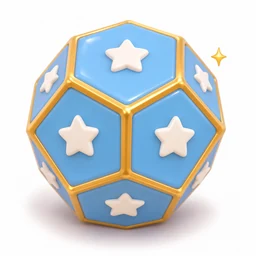
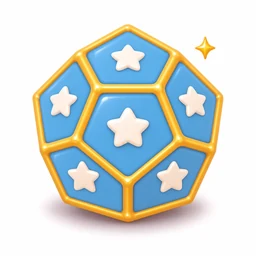
美術素材：12 面骰正式版、能量星星、地圖格子事件圖示
- 12 面骰換成正式稿（正五邊形面）；新增能量星星 images/items/star.webp
- 新增 images/tiles/（起點旗、寶箱、機會、小遊戲、終點旗，192px WebP）
- 地圖格子以白色圓角圖示框顯示（contain），角色所在格的圖示縮小移到角落避免遮擋；圖例改用圖示
- 第 30 格暫用終點旗，只代表第一區結束，規則不變
- 能量星星在淺色底以 multiply 顯示（星星卡、地圖 HUD、商店餘額、結算摘要），不去背
- 新增礦場木門繪圖提示詞；sw.js 升版 cgp-shell-v20；App 版本 2026.11.07-10
- E2E 新增格子圖示數量、載入、contain、角色所在格讓位檢查

Claude-Session: https://claude.ai/code/session_01W9KMAjsCX9MNXC5NxB6PY5

diff --git a/js/app.js b/js/app.js
@@ -4,7 +4,7 @@
 
   var CGP = window.CGP;
   /** 每次發布更新時修改，方便在「設定 → 備份」確認手機上是不是新版 */
-  var APP_VERSION = '2026.11.07-9';
+  var APP_VERSION = '2026.11.07-10';
   var store;
   try {
     store = new CGP.Store();
@@ -437,7 +437,7 @@
       '<button class="partner" data-action="pick-character" aria-label="選擇冒險夥伴"><span class="partner-ring">' + characterArt(child) + '</span>' +
       '<span class="partner-tag">' + h(characterName(child)) + ' ✎</span></button>' +
       '<div class="star-main"><span class="star-label">' + h(child.name) + '的能量星星</span>' +
-      '<b class="star-value" data-testid="stars"><span class="big-star">⭐</span> ' + num(bal) + '</b>' +
+      '<b class="star-value" data-testid="stars"><span class="big-star">' + STAR_IMG + '</span> ' + num(bal) + '</b>' +
       '<span class="star-hint">' + hint + '</span>' + progressBar(bal % DICE_COST, DICE_COST, 'star') + '</div>' +
       '<span class="chest-deco" aria-hidden="true"><small>快去收集吧！</small>' + CHEST + '</span></section>';
 
@@ -446,11 +446,11 @@
     if (x) {
       summary = '<div class="adv-status ok"><span class="sum-state"><i>✅</i>今日已結算</span>' +
         '<span class="sum-cell"><small>淨得分</small><b class="pos">' + signed(x.net) + '</b></span>' +
-        '<span class="sum-cell"><small>獲得星星</small><b class="gold">⭐' + x.stars + '</b>' + (x.bonusStars ? '<small>含額外 ' + x.bonusStars + '</small>' : '') + '</span></div>';
+        '<span class="sum-cell"><small>獲得星星</small><b class="gold">' + STAR_IMG + x.stars + '</b>' + (x.bonusStars ? '<small>含額外 ' + x.bonusStars + '</small>' : '') + '</span></div>';
     } else if (st.unlocked) {
       summary = '<div class="adv-status ready"><span class="sum-state"><i>🔓</i>今日冒險已解鎖</span>' +
         '<span class="sum-cell"><small>淨得分</small><b class="pos">' + signed(st.net) + '</b></span>' +
-        '<span class="sum-cell"><small>可得星星</small><b class="gold">⭐' + st.previewStars + '</b></span>' +
+        '<span class="sum-cell"><small>可得星星</small><b class="gold">' + STAR_IMG + st.previewStars + '</b></span>' +
         '<button class="btn primary sum-cta" data-action="enter-adventure">結算並出發</button></div>';
     } else {
       summary = '<div class="adv-status locked"><span class="sum-state"><i>🔒</i>今日冒險尚未解鎖</span>' +
@@ -499,6 +499,14 @@
     return '<img class="' + (cls || 'char-img') + '" src="images/characters/' + id + '.webp" alt="' + h(c.name) + '" width="300" height="310" decoding="async">';
   }
   function characterArt(child) { return charImg(characterId(child)); }
+  /** 能量星星圖示（白底圖，以 mix-blend-mode: multiply 疊在淺色底上；alt 保留 ⭐ 供讀屏） */
+  var STAR_IMG = '<img class="star-ico" src="images/items/star.webp" alt="⭐" width="256" height="256" decoding="async" draggable="false">';
+  /** 地圖格子事件圖示（白底圖放在白色圓角圖示框，contain 不裁切） */
+  var TILE_ART = { start: 'images/tiles/start.webp', chest: 'images/tiles/chest.webp', chance: 'images/tiles/chance.webp',
+    minigame: 'images/tiles/minigame.webp', boundary: 'images/tiles/finish.webp' };
+  function tileArt(type, cls) {
+    return TILE_ART[type] ? '<span class="tile-art ' + (cls || '') + '"><img src="' + TILE_ART[type] + '" alt="" aria-hidden="true" width="192" height="192" decoding="async" draggable="false"></span>' : '';
+  }
   /** 道具圖示（白底圖放在白色圖示框中，contain 不裁切）；名稱與價格由介面另外顯示 */
   function itemArt(id, cls) {
     var it = GAME.SHOP.filter(function (x) { return x.id === id; })[0];
@@ -511,7 +519,6 @@
   }
 
   // ---------- 金島第一區地圖（背景＋格子＋事件圖示＋角色，同一個座標容器） ----------
-  var TILE_ICON = { start: '', normal: '', chest: '🎁', chance: '❓', minigame: '🎮', boundary: '🚪' };
   var TILE_LABEL = { chest: '寶箱', chance: '機會', minigame: '小遊戲（即將開放）', boundary: '第一區終點：礦場木門' };
 
   /** 目前區域（第一區）的參考尺寸與背景 */
@@ -544,17 +551,17 @@
     var tiles = board.tiles.filter(function (t) { return t.regionId === region.id; }).map(function (t) {
       var p = worldXY(region, t);
       if (t.type === 'start') {
-        return '<div class="mstart" style="left:' + p.x.toFixed(1) + 'px;top:' + p.y.toFixed(1) + 'px" aria-hidden="true">起點</div>';
+        return '<div class="mstart' + (t.id === player.tileId ? ' here' : '') + '" data-tile="' + t.id + '" style="left:' + p.x.toFixed(1) + 'px;top:' + p.y.toFixed(1) + 'px" aria-hidden="true">' +
+          tileArt('start', 'start-art') + '<span>起點</span></div>';
       }
-      var icon = TILE_ICON[t.type];
-      return '<div class="mtile mt-' + t.type + '" data-n="' + t.n + '" data-tile="' + t.id + '" style="left:' + p.x.toFixed(1) + 'px;top:' + p.y.toFixed(1) + 'px"' +
-        (TILE_LABEL[t.type] ? ' title="' + TILE_LABEL[t.type] + '"' : '') + '>' + (icon ? '<span class="mtile-icon">' + icon + '</span>' : '') + '</div>';
+      return '<div class="mtile mt-' + t.type + (t.id === player.tileId ? ' here' : '') + '" data-n="' + t.n + '" data-tile="' + t.id + '" style="left:' + p.x.toFixed(1) + 'px;top:' + p.y.toFixed(1) + 'px"' +
+        (TILE_LABEL[t.type] ? ' title="' + TILE_LABEL[t.type] + '"' : '') + '>' + tileArt(t.type, 'mtile-icon') + '</div>';
     }).join('');
     var pp = worldXY(region, board.tiles[player.pos]);
     return pageHeader('金島', child, 'map') +
       '<main class="page map-page">' +
       '<section class="hud">' +
-      '<span class="hud-cell"><small>能量星星</small><b class="gold" data-testid="stars">⭐ ' + num(store.getStarBalance(child.id)) + '</b></span>' +
+      '<span class="hud-cell"><small>能量星星</small><b class="gold" data-testid="stars">' + STAR_IMG + ' ' + num(store.getStarBalance(child.id)) + '</b></span>' +
       '<span class="hud-cell"><small>今日骰子</small><b data-testid="rolls">' + used + ' / ' + limit + '</b></span>' +
       '<span class="hud-cell"><small>位置</small><b data-testid="pos">' + player.pos + ' / ' + end + '</b></span>' +
       '<button class="btn small hud-shop" data-action="open-shop"' + (canPlay ? '' : ' disabled') + '>🛒 商店</button></section>' +
@@ -577,7 +584,9 @@
       act('d12', '12 面骰', bag.d12, !canPlay || atEnd || noRolls || !bag.d12) +
       act('skates', '溜冰鞋 +3', bag.skates, !canPlay || atEnd || !bag.skates) +
       '</section>' +
-      '<div class="legend"><span>🎁 寶箱</span><span>❓ 機會</span><span>🎮 小遊戲（即將開放）</span><span>🚪 第一區終點</span></div>' +
+      '<div class="legend">' + [['chest', '寶箱'], ['chance', '機會'], ['minigame', '小遊戲（即將開放）'], ['boundary', '第一區終點']].map(function (l) {
+        return '<span>' + tileArt(l[0], 'legend-art') + l[1] + '</span>';
+      }).join('') + '</div>' +
       '<a class="btn block" href="#adventure-' + h(child.id) + '">‹ 回冒險大廳</a>' +
       '</main>';
   }
@@ -663,6 +672,12 @@
   var reduceMotion = window.matchMedia && window.matchMedia('(prefers-reduced-motion: reduce)').matches;
 
   /** 角色依序一格一格跳過去，鏡頭跟隨 */
+  /** 角色所在格：事件圖示縮小移到角落，避免遮住角色 */
+  function markHere(tileId) {
+    app.querySelectorAll('.map-world .here').forEach(function (el) { el.classList.remove('here'); });
+    var el = app.querySelector('.map-world [data-tile="' + tileId + '"]:not(.pawn)');
+    if (el) el.classList.add('here');
+  }
   async function hopAlong(child, path) {
     var pawn = document.getElementById('pawn');
     if (!pawn) return;
@@ -672,6 +687,7 @@
       var t = board.tiles[path[i]], p = worldXY(regionOf(board, t), t);
       pawn.style.left = p.x.toFixed(1) + 'px'; pawn.style.top = p.y.toFixed(1) + 'px';
       pawn.dataset.pos = path[i]; pawn.dataset.tile = t.id;
+      markHere(t.id);
       pawn.classList.remove('hop'); void pawn.offsetWidth; pawn.classList.add('hop');
       followPawn(true);
       await sleep(reduceMotion ? 60 : 340);
@@ -731,7 +747,7 @@
       var bal = store.getStarBalance(childId);
       var bag = store.getPlayer(childId).bag;
       confirmEl.innerHTML = '<div class="confirm-box shop-box"><h2>🛒 星星商店</h2>' +
-        '<p class="shop-bal">目前有 <b>⭐ ' + num(bal) + '</b></p>' +
+        '<p class="shop-bal">目前有 <b>' + STAR_IMG + ' ' + num(bal) + '</b></p>' +
         GAME.SHOP.map(function (it) {
           var ok = bal >= it.price;
           return '<div class="shop-row" data-item="' + it.id + '">' + itemArt(it.id, 'shop-row-icon') +

diff --git a/tests/e2e.js b/tests/e2e.js
@@ -412,7 +412,7 @@ async function main() {
     await q.click('[data-action=enter-adventure]');
     await q.click('#confirm [data-yes]');
     await q.waitForSelector('[data-testid=stars]');
-    assert.equal(await q.locator('[data-testid=stars]').innerText(), '⭐ 4');
+    assert.equal((await q.locator('[data-testid=stars]').innerText()).trim(), '4');
     await q.screenshot({ path: SHOT_DIR ? path.join(SHOT_DIR, '15-lobby.png') : path.join(require('os').tmpdir(), 'lobby.png'), fullPage: true });
     console.log('✔ Phase 2 案例 A：+20 解鎖並取得 4 星');
 
@@ -443,7 +443,7 @@ async function main() {
     assert.equal(await q.locator('[data-action=enter-adventure]').count(), 0);
     const q2 = await c2.newPage();
     await q2.goto(url + '#adventure-' + ids.C);
-    assert.equal(await q2.locator('[data-testid=stars]').innerText(), '⭐ 7');
+    assert.equal((await q2.locator('[data-testid=stars]').innerText()).trim(), '7');
     await tap(ids.C, '加五十'); // 結算後再加分
     assert.equal(await stars(ids.C), 7);
     console.log('✔ Phase 2 案例 D：重新整理、重新開啟後不重複發星');
@@ -477,17 +477,17 @@ async function main() {
     await q.waitForSelector('.map-cta[href]');
     await q.click('.map-cta[href]');
     await q.waitForSelector('#pawn');
-    assert.equal(await q.locator('[data-testid=stars]').innerText(), '⭐ 20');
+    assert.equal((await q.locator('[data-testid=stars]').innerText()).trim(), '20');
 
     // 案例 A：購買 6 面骰扣 5 星、進背包
     await q.click('[data-action=open-shop]');
     await q.click('#confirm [data-buy=d6]');
-    assert.match(await q.locator('.shop-bal').innerText(), /⭐ 15/);
+    assert.match(await q.locator('.shop-bal').innerText(), /目前有\s*15\b/);
     await q.click('#confirm [data-buy=d6]');
     await q.click('#confirm [data-buy=d6]');
     await q.click('#confirm [data-buy=d6]');
     await q.click('#confirm [data-no]');
-    assert.equal(await q.locator('[data-testid=stars]').innerText(), '⭐ 0');
+    assert.equal((await q.locator('[data-testid=stars]').innerText()).trim(), '0');
     assert.match(await q.locator('.dice-btn.d6').innerText(), /×4/);
     console.log('✔ Phase 3 案例 A：購買 6 面骰扣 5 星、進背包');
 
@@ -605,7 +605,7 @@ async function main() {
     await q.waitForSelector('.map-cta[href]');
     await q.click('.map-cta[href]');
     await q.waitForSelector('#pawn');
-    assert.equal(await q.locator('[data-testid=stars]').innerText(), '⭐ 40');
+    assert.equal((await q.locator('[data-testid=stars]').innerText()).trim(), '40');
 
     // 圖片載入、正方形、object-fit: contain、白色圖示框、手機上至少 48px
     const checkArt = async (sel, label) => {
@@ -636,12 +636,12 @@ async function main() {
     assert.match(await q.locator('#confirm [data-item=d12]').innerText(), /12 面骰/);
     if (SHOT_DIR) await q.locator('#confirm .shop-box').screenshot({ path: path.join(SHOT_DIR, '17-shop-items-' + width + '.png') });
     await q.click('#confirm [data-buy=d12]');
-    assert.match(await q.locator('.shop-bal').innerText(), /⭐ 30/);
+    assert.match(await q.locator('.shop-bal').innerText(), /目前有\s*30\b/);
     await q.click('#confirm [data-buy=skates]');
-    assert.match(await q.locator('.shop-bal').innerText(), /⭐ 26/);
+    assert.match(await q.locator('.shop-bal').innerText(), /目前有\s*26\b/);
     assert.match(await q.locator('#confirm [data-item=skates]').innerText(), /背包 ×1/);
     await q.click('#confirm [data-no]');
-    assert.equal(await q.locator('[data-testid=stars]').innerText(), '⭐ 26');
+    assert.equal((await q.locator('[data-testid=stars]').innerText()).trim(), '26');
     assert.match(await q.locator('.dice-btn.d12').innerText(), /×1/);
     assert.match(await q.locator('.dice-btn.skates').innerText(), /×1/);
     assert.ok(await q.locator('.dice-btn.d6').isDisabled(), '沒有 6 面骰時不可按');
@@ -654,7 +654,7 @@ async function main() {
     await q.waitForSelector('.dice-btn.skates[disabled]');
     assert.equal(await q.locator('[data-testid=rolls]').innerText(), '0 / 3');
     assert.match(await q.locator('.dice-btn.skates').innerText(), /×0/);
-    assert.equal(await q.locator('[data-testid=stars]').innerText(), '⭐ 28');
+    assert.equal((await q.locator('[data-testid=stars]').innerText()).trim(), '28');
     await checkArt('.dice-bar .item-art img', '使用後道具列');
     console.log('✔ 道具圖示 ' + width + 'px：商店與道具列圖片載入、contain、白框、價格 5／10／4、溜冰鞋前進 3 格不算擲骰');
     await c4.close();
@@ -686,6 +686,26 @@ async function main() {
       // 背景保持 4:5、不裁切
       const bgRatio = await q.evaluate(() => { const r = document.querySelector('.map-bg').getBoundingClientRect(); return r.width / r.height; });
       assert.ok(Math.abs(bgRatio - 0.8) < 0.002, '背景維持 4:5');
+      // 格子事件圖示：圖片載入、contain、白框；角色在起點時起點旗讓位
+      await q.waitForFunction(() => [...document.querySelectorAll('.map-world .tile-art img, .legend img')].every((i) => i.complete && i.naturalWidth === 192));
+      const arts = await q.evaluate(() => {
+        const z = (el) => el.getBoundingClientRect().width;
+        const icons = [...document.querySelectorAll('.map-world .tile-art')];
+        return {
+          types: icons.map((el) => (el.closest('.mtile') ? el.closest('.mtile').className.match(/mt-(\w+)/)[1] : 'start')),
+          fit: [...new Set(icons.map((el) => getComputedStyle(el.querySelector('img')).objectFit))],
+          bg: [...new Set(icons.map((el) => getComputedStyle(el).backgroundColor))],
+          px: Math.round(z(document.querySelector('.mt-chest .tile-art')) * 10) / 10,
+          legend: [...document.querySelectorAll('.legend img')].map((i) => i.getAttribute('src').split('/').pop()),
+          startHere: document.querySelector('.mstart').classList.contains('here')
+        };
+      });
+      const count = (t) => arts.types.filter((x) => x === t).length;
+      assert.deepEqual([count('start'), count('chest'), count('chance'), count('minigame'), count('boundary')], [1, 4, 5, 3, 1], '格子圖示數量');
+      assert.deepEqual(arts.fit, ['contain']); assert.deepEqual(arts.bg, ['rgb(255, 255, 255)']);
+      assert.deepEqual(arts.legend, ['chest.webp', 'chance.webp', 'minigame.webp', 'finish.webp']);
+      assert.ok(arts.startHere, '角色在起點：起點旗讓位');
+      console.log('  ・' + width + 'px 預設縮放：格子圖示約 ' + arts.px + 'px');
       // 30 格依 JSON 座標、與背景同一縮放：比對畫面位置
       async function checkAlign(label) {
         const m = await q.evaluate(() => {
@@ -744,6 +764,7 @@ async function main() {
         assert.equal(saved, 'gold-01-004');
         await q.reload(); await q.waitForSelector('#pawn');
         assert.equal(await q.locator('#pawn').getAttribute('data-tile'), 'gold-01-004', '重新整理後恢復位置');
+        assert.deepEqual(await q.$$eval('.map-world .here', (els) => els.map((e) => e.dataset.tile)), ['gold-01-004'], '只有角色所在格標記 here');
         await checkAlign('重新整理後');
         // 舊存檔只有整數格號 → 遷移成穩定 ID
         await q.evaluate((cid) => {

diff --git a/css/style.css b/css/style.css
@@ -1058,3 +1058,25 @@ img.mascot { width: 64px; height: auto; object-fit: contain; flex: none; }
 .item-art img { display: block; width: 100%; height: 100%; object-fit: contain; }
 .dice-icon.item-art { width: 56px; height: 56px; margin-bottom: 2px; }
 .shop-row-icon.item-art { width: 52px; height: 52px; }
+
+/* 能量星星圖示：白底圖以 multiply 疊在淺色底上（白色消失、不去背） */
+.star-ico { display: inline-block; width: 1.2em; height: 1.2em; object-fit: contain; vertical-align: -.22em; mix-blend-mode: multiply; }
+.big-star { font-size: 1em; }
+.big-star .star-ico { width: 1em; height: 1em; vertical-align: -.12em; }
+
+/* 地圖格子事件圖示：白色圓角圖示框浮在石板上方，contain 不裁切 */
+.tile-art {
+  display: grid; place-items: center; overflow: hidden; background: #fff; border-radius: 10px;
+  box-shadow: 0 0 0 1.5px rgba(214, 180, 130, .55), 0 2px 3px rgba(80, 50, 20, .3);
+}
+.tile-art img { display: block; width: 100%; height: 100%; object-fit: contain; }
+.mtile-icon.tile-art { position: relative; width: 46px; height: 46px; font-size: 0; transform: translateY(-16px); transition: transform .25s ease, opacity .25s ease; }
+/* 角色站上的格子：圖示縮小移到右上角並淡出，避免遮擋角色 */
+.mtile.here .mtile-icon.tile-art { transform: translate(30px, -34px) scale(.5); opacity: .8; }
+.mstart { display: grid; justify-items: center; gap: 1px; padding: 0; background: none; border: none; box-shadow: none; color: #23561c; }
+.mstart > span:last-child { padding: 0 8px; border-radius: 99px; background: #8be07a; border: 2px solid #fff; box-shadow: 0 2px 0 #4f9e44; font-size: 13px; line-height: 1.3; }
+.start-art.tile-art { width: 46px; height: 46px; transition: transform .25s ease, opacity .25s ease; }
+.mstart.here .start-art { transform: translate(28px, -6px) scale(.5); opacity: .8; }
+.legend > span { display: inline-flex; align-items: center; gap: 4px; }
+.legend-art.tile-art { width: 22px; height: 22px; border-radius: 6px; box-shadow: 0 0 0 1px rgba(214, 180, 130, .55); }
+.star-main { z-index: auto; } /* 不建立獨立堆疊層，讓星星圖的 multiply 能與卡片背景混合 */

diff --git a/sw.js b/sw.js
@@ -1,10 +1,10 @@
 /* 親子集點 Service Worker：離線可用。資料存在 localStorage，不受快取影響。 */
-var CACHE = 'cgp-shell-v19';
+var CACHE = 'cgp-shell-v20';
 var SHELL = [
   './', 'index.html', 'css/style.css', 'js/store.js', 'js/rules-csv.js', 'js/report.js', 'js/board-gold.js', 'js/game.js', 'js/art.js', 'js/app.js',
   'manifest.webmanifest', 'images/gold-island.webp', 'images/gold-island.jpg', 'images/gold/region01.webp', 'images/gold/region01.jpg', 'images/gold/stone.webp', 'images/mascot.webp', 'images/float-castle.webp', 'images/chest.webp',
   'images/characters/roundear.webp', 'images/characters/longear.webp', 'images/characters/horn.webp', 'images/characters/wing.webp',
-  'images/characters/drop.webp', 'images/characters/sprout.webp', 'images/characters/flame.webp', 'images/characters/stone.webp', 'images/items/dice_6.webp', 'images/items/dice_12.webp', 'images/items/roller_skate.webp', 'images/islands/wood.webp', 'images/islands/water.webp', 'images/islands/fire.webp', 'images/islands/earth.webp', 'icons/icon.svg', 'icons/icon-192.png', 'icons/icon-512.png'
+  'images/characters/drop.webp', 'images/characters/sprout.webp', 'images/characters/flame.webp', 'images/characters/stone.webp', 'images/items/dice_6.webp', 'images/items/dice_12.webp', 'images/items/roller_skate.webp', 'images/islands/wood.webp', 'images/islands/water.webp', 'images/islands/fire.webp', 'images/islands/earth.webp', 'images/items/star.webp', 'images/tiles/start.webp', 'images/tiles/chest.webp', 'images/tiles/chance.webp', 'images/tiles/minigame.webp', 'images/tiles/finish.webp', 'icons/icon.svg', 'icons/icon-192.png', 'icons/icon-512.png'
 ];
 
 self.addEventListener('install', function (e) {

diff --git a/docs/art-prompts.md b/docs/art-prompts.md
@@ -130,6 +130,23 @@ gentle inner light, tiny sparkles, cute and precious (no face)
 
 ---
 
+## 第四優先：礦場木門（第一區終點，地圖第 30 格）
+
+尺寸：正方形 1024 × 1024，白底即可。會縮成約 30px 放在石板上，**輪廓要簡單、門的形狀一眼可認**。
+（目前第 30 格暫用「終點旗」；終點旗之後保留給整座島的終點第 100 格。）
+
+```
+A small cute mine entrance door: a rounded wooden arched door set into a chunky
+golden-brown rock frame, thick wooden support beams on both sides and across the top,
+warm lantern glowing beside the door, a tiny golden gear emblem on the door,
+a few glowing gold crystals at the base, short rail tracks leading into the door,
+door slightly closed (not open), front 3/4 view
+```
+
+中文：小巧可愛的礦坑入口木門：圓拱形木門嵌在厚實的金棕色岩石門框裡，左右和上方有粗木頭支撐梁，門旁掛著發出暖光的小油燈，門上有金色小齒輪徽章，門腳有幾顆發光的金色礦石，一小段鐵軌通向門口；門是關著的（不要打開），正面略側 3/4 視角。
+
+---
+
 ## 選做：金島俯瞰棋盤底圖（1 張）
 
 尺寸：**直式 1080 × 1350**。這張**不要用白色背景**，背景就是海。
@@ -151,6 +168,12 @@ No characters, no text, no UI. Bright sunny, cute children's game map.
 中文：小型金色礦山島的等角 2.5D 俯瞰圖，約 45 度往下看，整座島完整入鏡、四周留一點海。一條清楚的蜿蜒小路，由約 30 塊平坦的方形踏石組成（奶油色石板、間距平均、不要數字），從下方沙灘起點蜿蜒到上方的小城堡。路旁有：礦坑入口加軌道與裝滿金子的礦車、發光的金色礦石、大型金色齒輪、冒煙的蒸汽龐克小工廠、金屬拱橋、椰子樹、花、岩石。路上的石板要清楚、不要被物件擋住。不要角色、文字、介面。晴朗明亮、可愛的兒童遊戲地圖。
 
 > 生成後傳給我，我會依照圖上的石板位置重新對齊 30 格路徑。石板數量不一定剛好 30 塊也沒關係，我可以調整。
+
+---
+
+## 已完成（不用再做）
+
+6 面骰、12 面骰、溜冰鞋、能量星星、寶箱格、機會格、小遊戲格、起點旗、終點旗、五島入口插圖。
 
 ---
 

diff --git a/docs/HANDOFF.md b/docs/HANDOFF.md
@@ -1,6 +1,6 @@
 # 親子集點冒險 App：交接文件
 
-> 最後更新：2026-11-07｜App 版本 `2026.11.07-9`｜Service Worker 快取 `cgp-shell-v19`
+> 最後更新：2026-11-07｜App 版本 `2026.11.07-10`｜Service Worker 快取 `cgp-shell-v20`
 > 給接手的開發者（或下一個 Claude session）。請先讀 `PROJECT_SPEC.md`，再讀本文件。
 
 ---
@@ -63,9 +63,10 @@
 
 | 優先 | 項目 | 目前 |
 |---|---|---|
-| ✅ | 6 面骰、12 面骰、溜冰鞋圖示 | 已接入 `images/items/`（白底圖＋白色圖示框，contain）；12 面骰為暫用風格稿，幾何面形之後可換正式稿（同檔名覆蓋並升 `sw.js` 快取版本即可） |
-| 2 | 格子事件圖示：寶箱、機會、小遊戲、木門 | 表情符號 🎁❓🎮🚪 |
-| 3 | 能量星星圖示 | ⭐ |
+| ✅ | 6 面骰、12 面骰（正式版）、溜冰鞋圖示 | `images/items/`（白底圖＋白色圖示框，contain） |
+| ✅ | 格子事件圖示：起點旗、寶箱、機會、小遊戲、終點旗 | `images/tiles/`（192px WebP，白色圓角圖示框浮在石板上；角色所在格 `.here` 時圖示縮小移到右上角）。第 30 格暫用終點旗 |
+| 2 | 礦場木門（第 30 格） | 暫用終點旗；提示詞見 `docs/art-prompts.md`「第四優先」，到貨後 `TILE_ART.boundary` 改指木門圖，終點旗留給第 100 格 |
+| ✅ | 能量星星圖示 | `images/items/star.webp`，以 `mix-blend-mode: multiply` 顯示在淺色底（星星卡、地圖 HUD、商店餘額、結算摘要）；句子、提示訊息、商店橘色價格按鈕仍用 ⭐ 文字 |
 | ✅ | 五島入口插圖（冒險大廳地圖關卡卡） | 金島 `images/gold-island.*`；木／水／火／土島 `images/islands/<wood|water|fire|earth>.*`，依 `players[id].island` 自動切換（`js/app.js` 的 `ISLANDS`）。木、火、土島原圖右下角的淡浮水印已修除（反算半透明白框＋周圍紋理補圖）；換圖時同檔名覆蓋並升 `sw.js` 快取版本 |
 | — | 「抓住星星」小遊戲素材 | Phase 4 需要 |
 
